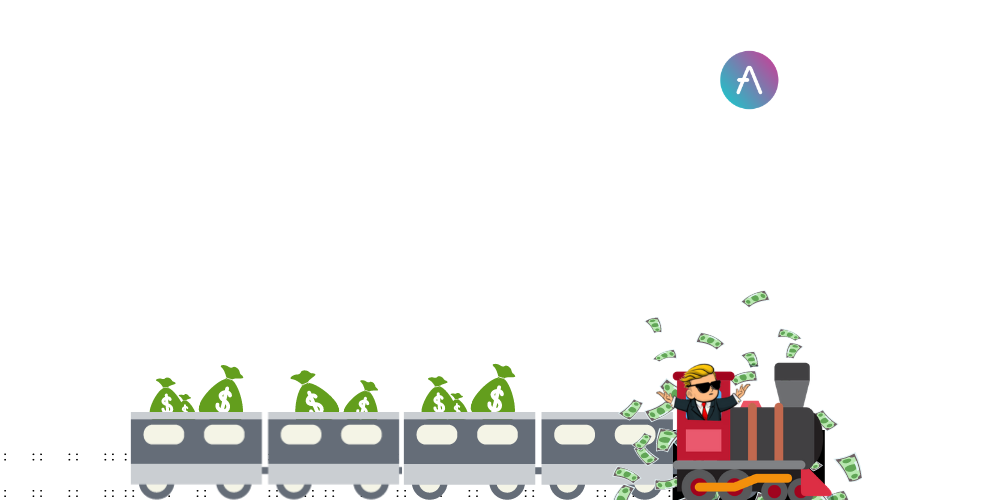
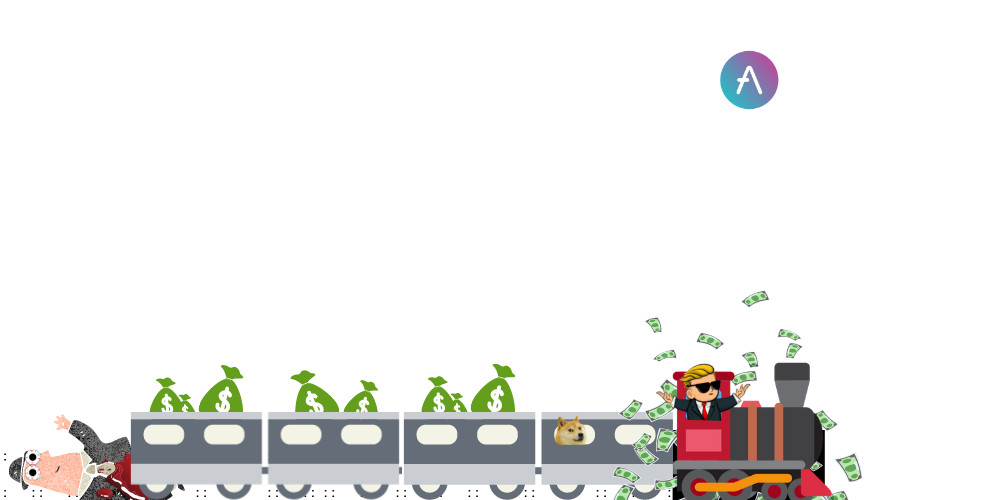
edited image

Changed region(s): [[0.0, 0.84, 0.186, 1.0], [0.558, 0.84, 0.589, 0.9]]

diff --git a/src/pages/YourEarningsSimple.react.js b/src/pages/YourEarningsSimple.react.js
@@ -106,42 +106,41 @@ const YourEarningsSimple = ({match, location})  => {
     <SiteWrapper>
       <Confetti/>
       <Page.Content title="💰 Your Earnings">
-        <div >
-          <Grid.Row>
-              <Grid.Col width={3}></Grid.Col>
-              <Grid.Col width={3}>
-                    <div className="d-flex align-items-sm-center justify-content-sm-center">
-                      <div>
-                          <h2>Deposited:</h2>
-                          <h2>Total:</h2>
-                      </div>
-                    </div>
-                  </Grid.Col>
-                  <Grid.Col width={3}>
-                    <div className="d-flex align-items-sm-center justify-content-sm-center">
-                      <div>
-                        <NumberFormat 
-                          value={balance} 
-                          displayType={'text'} 
-                          thousandSeparator={true} 
-                          prefix={'$'} 
-                          decimalScale={4}
-                          renderText={value => 
-                            <h2>{value}</h2>} 
-                        />
-                        <NumberFormat 
-                          value={balance + interest} 
-                          displayType={'text'} 
-                          thousandSeparator={true} 
-                          prefix={'$'} 
-                          decimalScale={7}
-                          renderText={value => 
-                            <h2>{value}</h2>} 
-                        />
-                      </div>
-                    </div>
-                </Grid.Col>
-              <Grid.Col width={3}></Grid.Col>
+        <div className="earnings-image">
+          <Grid.Row className="full-height center-items">
+              <Grid.Col width={7}></Grid.Col>
+              <Grid.Col width={2}>
+                <div className="d-flex align-items-sm-center justify-content-sm-center">
+                  <div>
+                    <h2>Deposited:</h2>
+                    <h2>Total:</h2>
+                  </div>
+                </div>
+              </Grid.Col>
+              <Grid.Col width={2}>
+                <div className="">
+                  <div>
+                    <NumberFormat 
+                      value={balance} 
+                      displayType={'text'} 
+                      thousandSeparator={true} 
+                      prefix={'$'} 
+                      decimalScale={4}
+                      renderText={value => 
+                          <h2>{value}</h2>} 
+                      />
+                    <NumberFormat 
+                      value={balance + interest} 
+                      displayType={'text'} 
+                      thousandSeparator={true} 
+                      prefix={'$'} 
+                      decimalScale={7}
+                      renderText={value => 
+                          <h2>{value}</h2>} 
+                    />
+                   </div>
+                 </div>
+              </Grid.Col>
             </Grid.Row>
         </div>
       </Page.Content>

diff --git a/src/App.css b/src/App.css
@@ -70,6 +70,24 @@ button:disabled {
   cursor: not-allowed;
 }
 
+.earnings-image{
+  background-image: url(/static/train-arriving-aave.png) !important;
+  background-repeat: no-repeat  !important;
+  background-size: 100% 100%  !important;
+  min-height: 500px;
+}
+
+.full-height{
+  height: 100%;
+  min-height: 500px;
+}
+
+.center-items{
+  display: flex;
+  align-items: center;
+}
+
+
 @media (min-width: 576px) {
   .ticket-form {
     background-image: url(/static/referralTicket.png) !important;
